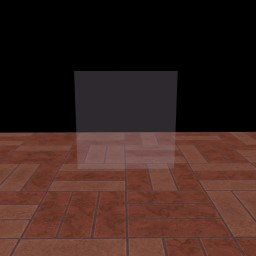
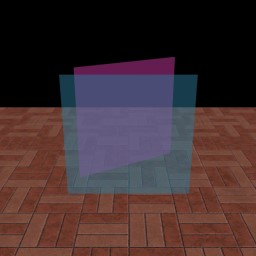
1. 实现半透明材质； 2. 实现渲染次序排序； 3. 修复双面材质背面无法正确受光照的问题； 4. Actor添加DistanceToActor函数，添加Vector3长度函数 4. 更新SimpleDemo的地面，加入法线贴图；

diff --git a/Translucent.js b/Translucent.js
@@ -1,4 +1,5 @@
 // 创建需要用到的东西
+// 摄像机
 let simpleCamera = new SimpleRotateCamera(new Vector3([0, 1.5, 0]));
 simpleCamera.yawSpeed = 10;
 simpleCamera.pitchSpeed = 10;
@@ -12,23 +13,29 @@ let light = new Light(
 // Shader
 let sSpecularTrans = new Shader('./DefaultShader/DefaultVert.vert', './Res/ShowCase/Translucent/SpecularTrans.frag');
 let sShadowCaster1 = new Shader('./DefaultShader/ShadowCaster.vert', './DefaultShader/ShadowCaster.frag');
-let sSpecularBC = new Shader('./DefaultShader/DefaultVert.vert', './DefaultShader/SpecularBC.frag');
+let sFloor = new Shader('./DefaultShader/DefaultVert.vert', './Res/ShowCase/Translucent/Floor.frag');
 let sShadowCaster2 = new Shader('./DefaultShader/ShadowCaster.vert', './DefaultShader/ShadowCaster.frag');
+let sSpecularTrans2 = new Shader('./DefaultShader/DefaultVert.vert', './Res/ShowCase/Translucent/SpecularTrans.frag');
+let sShadowCaster3 = new Shader('./DefaultShader/ShadowCaster.vert', './DefaultShader/ShadowCaster.frag');
 // 材质
 let mTrans = new Material(sSpecularTrans, sShadowCaster1, MATERIAL_TYPE.TRANSLUCENT, 0)
-let mFloor = new Material(sSpecularBC, sShadowCaster2, MATERIAL_TYPE.OPAQUE, 0);
+let mTrans2 = new Material(sSpecularTrans2, sShadowCaster3, MATERIAL_TYPE.TRANSLUCENT, 0);
+let mFloor = new Material(sFloor, sShadowCaster2, MATERIAL_TYPE.OPAQUE, 0);
 // 模型
 let smQuad = new Model('./Res/Model/Quad.obj', 1);
 let smFloor = new Model('/Res/Model/Plane.obj', 1);
 // Mesh(Actor)
 let quad = new Mesh(new Transform(new Vector3([0, 1.5, 0])), smQuad, mTrans, false);
+let quad2 = new Mesh(new Transform(new Vector3([0, 1.5, 1])), smQuad, mTrans2, false);
 let floor = new Mesh(new Transform(), smFloor, mFloor, true);
 // 贴图
 let tFloor = new Texture('./Res/Material/SpanishPavement_BC.png');
+let tFloorN = new Texture('./Res/Material/SpanishPavement_N.png')
 
 // 想编辑的Shader列表
 this.codeEditor.editableShaderList = [
-    sSpecularTrans.FS.bind(sSpecularTrans)
+    sSpecularTrans.FS.bind(sSpecularTrans),
+    sSpecularTrans2.FS.bind(sSpecularTrans2)
 ]; 
 
 this.clearColor = [0, 0, 0, 1];
@@ -37,9 +44,9 @@ this.clearColor = [0, 0, 0, 1];
 this.bulidScene = (scene) =>
 {
     scene.modelList = [smQuad, smFloor];
-    scene.materialList = [mTrans, mFloor];
-    scene.textureList = [tFloor];
-    scene.meshList = [floor, quad];
+    scene.materialList = [mTrans, mFloor, mTrans2];
+    scene.textureList = [tFloor, tFloorN];
+    scene.meshList = [floor, quad, quad2];
     scene.lightList = [light];
     scene.camera = simpleCamera;
     scene.ambientColor = [0.1, 0.1, 0.1];
@@ -49,11 +56,16 @@ this.bulidScene = (scene) =>
 this.customBeginPlay = () =>
 {
     mFloor.setTexture('u_TexBC', tFloor);
+    mFloor.setTexture('u_TexN', tFloorN);
+    mTrans.setVector3f('u_Color', 1.0, 0.3, 0.8);
+    mTrans2.setVector3f('u_Color', 0.3, 0.8, 1.0);
+
     mTrans.setCullMode(CULL_MODE.OFF);
+    mTrans2.setCullMode(CULL_MODE.OFF);
 }
 
 // 在运行时逐帧执行
 this.customTick = (deltaSecond) =>
 {
-   
+    quad.addRotationOffset(new Vector3([0, 15, 0]).multiplyf(deltaSecond));
 }

diff --git a/SimpleDemo.js b/SimpleDemo.js
@@ -12,11 +12,11 @@ let light = new Light(
 // Shader
 let sDiffuseBC = new Shader('./DefaultShader/DefaultVert.vert', './DefaultShader/DiffuseBC.frag');
 let sShadowCaster1 = new Shader('./DefaultShader/ShadowCaster.vert', './DefaultShader/ShadowCaster.frag');
-let sSpecularBC = new Shader('./DefaultShader/DefaultVert.vert', './DefaultShader/SpecularBC.frag');
+let sSpecularBCN = new Shader('./DefaultShader/DefaultVert.vert', './Res/ShowCase/SimpleDemo/Floor.frag');
 let sShadowCaster2 = new Shader('./DefaultShader/ShadowCaster.vert', './DefaultShader/ShadowCaster.frag');
 // 材质
 let mBox = new Material(sDiffuseBC, sShadowCaster1, MATERIAL_TYPE.OPAQUE, 0);
-let mFloor = new Material(sSpecularBC, sShadowCaster2, MATERIAL_TYPE.OPAQUE, 0);
+let mFloor = new Material(sSpecularBCN, sShadowCaster2, MATERIAL_TYPE.OPAQUE, 0);
 // 模型
 let smBox = new Model('./Res/Model/Cube.obj', 1);
 let smFloor = new Model('/Res/Model/Plane.obj', 1);
@@ -26,11 +26,12 @@ let floor = new Mesh(new Transform(), smFloor, mFloor, true);
 // 贴图
 let tYangCong = new Texture('./Res/Image/YangCong256.jpg');
 let tFloor = new Texture('./Res/Material/SpanishPavement_BC.png');
+let tFloorN = new Texture('Res/Material/SpanishPavement_N.png')
 
 // 想编辑的Shader列表
 this.codeEditor.editableShaderList = [
     sDiffuseBC.FS.bind(sDiffuseBC),
-    sSpecularBC.FS.bind(sSpecularBC)
+    sSpecularBCN.FS.bind(sSpecularBCN)
 ]; 
 
 this.clearColor = [0.1, 0.1, 0.11, 1];
@@ -40,7 +41,7 @@ this.bulidScene = (scene) =>
 {
     scene.modelList = [smBox, smFloor];
     scene.materialList = [mBox, mFloor];
-    scene.textureList = [tYangCong, tFloor];
+    scene.textureList = [tYangCong, tFloor, tFloorN];
     scene.meshList = [box, floor];
     scene.lightList = [light];
     scene.camera = simpleCamera;
@@ -51,7 +52,9 @@ this.bulidScene = (scene) =>
 this.customBeginPlay = () =>
 {
     mBox.setTexture('u_TexBC', tYangCong);
+
     mFloor.setTexture('u_TexBC', tFloor);
+    mFloor.setTexture('u_TexN', tFloorN);
     mFloor.setCullMode(CULL_MODE.OFF);
 }
 

diff --git a/RendererLib/Scene.js b/RendererLib/Scene.js
@@ -102,6 +102,39 @@ class Scene {
         this.camera.update(deltaSecond);
     }
 
+    /**
+     * 基于renderQueue和距离摄像机的距离对Mesh List排序
+     */
+    sortRenderOrder(){
+        // 先计算出所有东西距离摄像机的距离
+        this.meshList.forEach((mesh, index, arr) => {
+            mesh.distanceFromCamera = mesh.distanceToActor(this.camera);
+        })
+
+        // 排序
+        this.meshList.sort((a, b) => {
+            // 如果renderqueue值不一样 就按照renderqueue排序
+            if(a.material.renderQueue !== b.material.renderQueue){
+                return (a.material.renderQueue - b.material.renderQueue);
+            }
+            // 一样就看距离摄像机的距离
+            else{
+                // 不透明和蒙版从近到远排序
+                if (a.material.materialType === MATERIAL_TYPE.OPAQUE || a.material.materialType === MATERIAL_TYPE.MASKED)
+                    return (a.distanceFromCamera - b.distanceFromCamera);
+                // 透明和叠加从远到近
+                if (a.material.materialType === MATERIAL_TYPE.TRANSLUCENT || a.material.materialType === MATERIAL_TYPE.ADDITIVE)
+                    return -(a.distanceFromCamera - b.distanceFromCamera);
+                // 除此之外不排序 报错
+                else{
+                    console.error('渲染队列排序：不存在的材质类型：' + a.materialType);
+                    return 0;
+                }
+            }
+        })
+
+    }
+
     calculateMatrices() {
         // 计算Mesh的M矩阵
         this.meshList.forEach((mesh, index, arr) => {

diff --git a/RendererLib/FunctionLibrary.js b/RendererLib/FunctionLibrary.js
@@ -32,7 +32,7 @@ let fInterpTo = function (current, target, deltaSecond, interpSpeed) {
 
 /**
  * 判断某个数是否是二的整数次幂
- * @param {Number} number 要检测的数据
+ * @param {Number} number 要检测的数
  * @returns {Boolean} 是否是二的整数次幂
  */
 let isPowerOf2 = function(number){
@@ -84,6 +84,10 @@ Vector3.prototype.multiplyf = function (float) {
 
 Vector3.prototype.copy = function () {
     return new Vector3([this.elements[0], this.elements[1], this.elements[2]]);
+}
+
+Vector3.prototype.getLength = function() {
+    return Math.sqrt(this.elements[0] * this.elements[0] + this.elements[1] * this.elements[1] + this.elements[2] * this.elements[2]);
 }
 
 

diff --git a/RendererLib/Actor.js b/RendererLib/Actor.js
@@ -149,6 +149,15 @@ class Actor {
     getRightVector() {
         return this.rotationMatrix.multiplyVector3(new Vector3([1, 0, 0]));
     }
+
+    /**
+     * 返回与另一个Actor的距离
+     * @param {Actor} actor 另一个Actor
+     * @returns {Number} 距离
+     */
+    distanceToActor(actor){
+        return actor.getLocation().substract(this.getLocation()).getLength();
+    }
 }
 
 class Mesh extends Actor {

diff --git a/RendererLib/WebGLRenderer.js b/RendererLib/WebGLRenderer.js
@@ -75,6 +75,7 @@ class WebGLRenderer {
 
             this.customTick(deltaSecond);
 
+            this.scene.sortRenderOrder();
             this.scene.calculateMatrices();
             this.scene.render(this.clearColor);
 
